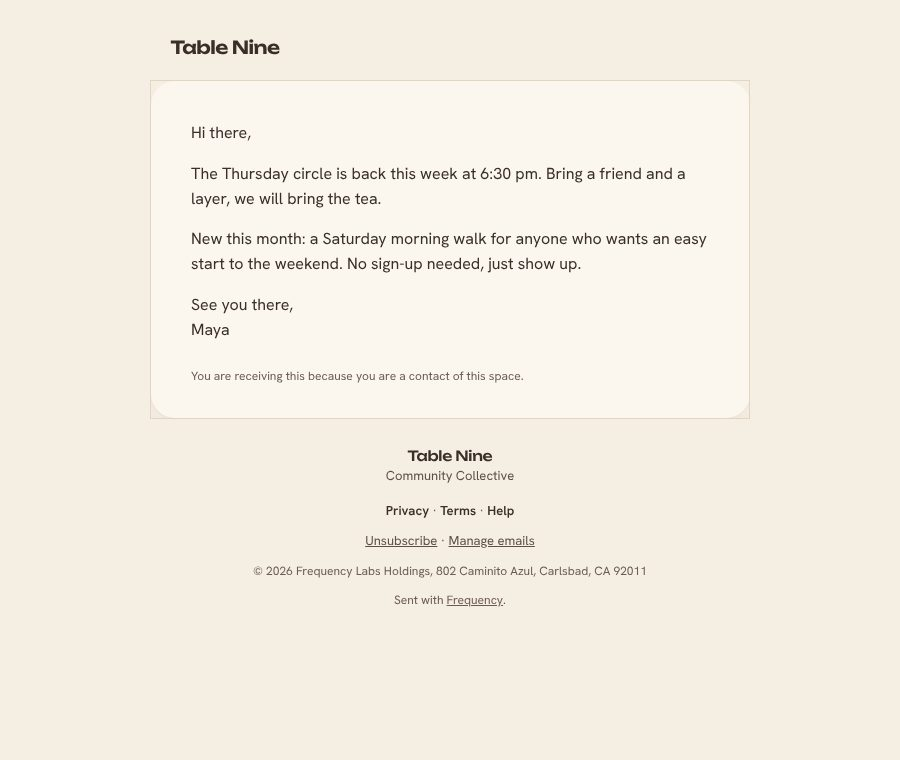
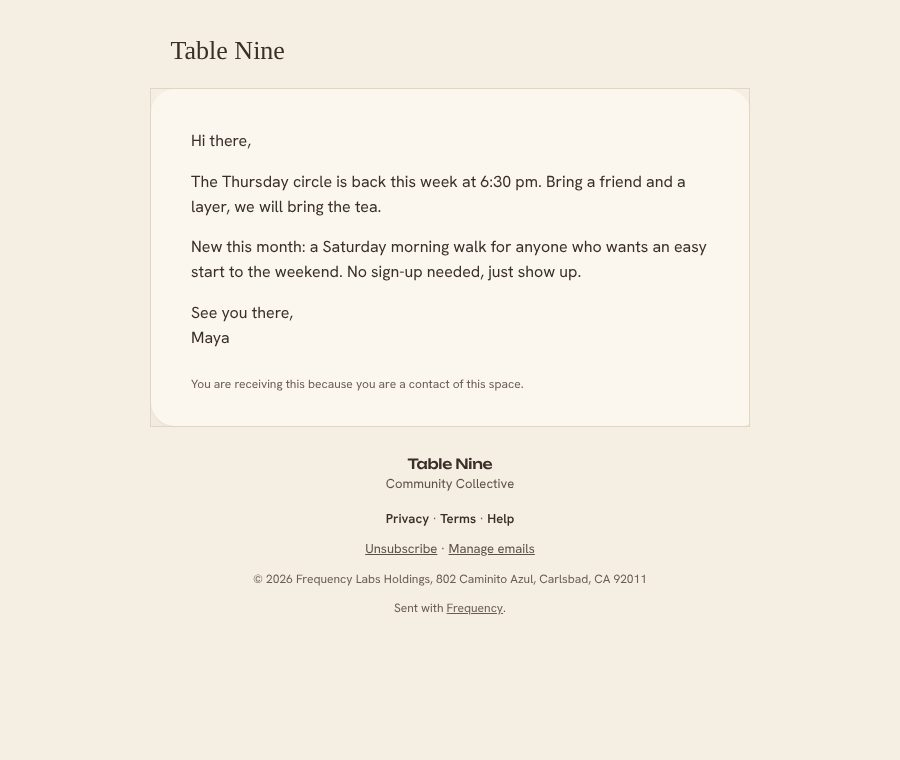
Wildheart's theme page pictures use its real faces, violet and serif email
The Website, Spotlight and Space pictures were drawn without IM Fell English, EB Garamond or Playfair, so every headline showed in Arial or Hanken. The render now loads them, shows the hero photo in its arch, drops the doubled sky line, and the Space wears the violet #6E4D96. The Space name takes IM Fell in the product CSS like the other kits, and the Wildheart email gets a serif wordmark and the petal corner.

Claude-Session: https://claude.ai/code/session_012BMmZWBhVadiMSJMqaAgNP

diff --git a/scripts/render/theme-pages-shots.render.tsx b/scripts/render/theme-pages-shots.render.tsx
@@ -28,12 +28,20 @@ const BOLD_FACES =
   [400, 500, 600].map((w) => face('Barlow', `barlow/barlow-${w}.woff2`, 'normal', String(w))).join('') +
   [400, 500].map((w) => face('IBM Plex Mono', `ibm-plex-mono/ibm-plex-mono-${w}.woff2`, 'normal', String(w))).join('')
 const BOLD_VARS = '--font-sofia-xc:"Sofia Sans Extra Condensed";--font-barlow:Barlow;--font-plex-mono:"IBM Plex Mono";'
+// Wildheart's faces (IM Fell English display, EB Garamond body, Hanken labels, Noto Sans Symbols for the zodiac glyphs) and Playfair,
+// which the Spotlight 'serif' font reads as --font-playfair. next/font sets these variables in the app; a bare page names them here.
+const ttf = (fam: string, f: string, style: string) => `@font-face{font-family:"${fam}";src:url("file://${ROOT}/public/fonts/wildheart/${f}") format("truetype");font-style:${style};font-weight:400}`
+const WH_FACES =
+  ttf('IM Fell English', 'IMFellEnglish-Regular.ttf', 'normal') + ttf('IM Fell English', 'IMFellEnglish-Italic.ttf', 'italic') +
+  face('EB Garamond', 'eb-garamond/eb-garamond.woff2', 'normal', '400 800') + face('EB Garamond', 'eb-garamond/eb-garamond-italic.woff2', 'italic', '400 800') +
+  face('Noto Sans Symbols', 'noto-sans-symbols/noto-sans-symbols.woff2') + face('Playfair Display', 'playfair-display/playfair-display.woff2', 'normal', '400 900')
+const WH_VARS = '--font-wh-fell:"IM Fell English";--font-wh-garamond:"EB Garamond";--font-wh-hanken:"Hanken Grotesk";--font-wh-symbols:"Noto Sans Symbols";--font-playfair:"Playfair Display";'
 const pub = (html: string) => html.replace(/ loading="lazy"/g, '').replace(/(src|href)="\/(sites|brand|themes|create-a-space)\//g, `$1="file://${ROOT}/public/$2/`)
 
 type Skin = { theme: 'menswork' | 'wildheart'; season: 'fall' } | null
 const THEMES: { ed: 'Menswork' | 'Wildheart'; id: string; mega: 'bold' | 'wildheart'; kit: string; skin: Skin; photo: string; cover: string; accent: string }[] = [
   { ed: 'Menswork', id: 'bold', mega: 'bold', kit: 'bold-coaches', skin: { theme: 'menswork', season: 'fall' }, photo: '/brand/frequency/photos/gathering-10.jpg', cover: '/brand/frequency/photos/gathering-12.jpg', accent: '#1F8A8A' },
-  { ed: 'Wildheart', id: 'wildheart', mega: 'wildheart', kit: 'wildheart-coaches', skin: { theme: 'wildheart', season: 'fall' }, photo: '/brand/wildheart/photos/huddle.jpg', cover: '/brand/wildheart/photos/sisters-shore.jpg', accent: '#6D4AFF' },
+  { ed: 'Wildheart', id: 'wildheart', mega: 'wildheart', kit: 'wildheart-coaches', skin: { theme: 'wildheart', season: 'fall' }, photo: '/brand/wildheart/photos/huddle.jpg', cover: '/brand/wildheart/photos/sisters-shore.jpg', accent: '#6E4D96' },
 ]
 
 async function html(el: unknown): Promise<string> {
@@ -43,7 +51,7 @@ async function html(el: unknown): Promise<string> {
   return Buffer.concat(chunks).toString()
 }
 const shellDoc = (body: string) =>
-  `<!doctype html><html data-design="frequency" data-theme="light"><head><meta charset="utf-8"><meta name="viewport" content="width=device-width,initial-scale=1"><link rel="stylesheet" href="app.css"><link rel="stylesheet" href="fonts.css"><style>:root{--font-lexend:Lexend,system-ui,sans-serif;${BOLD_VARS}}html{scrollbar-width:none}</style></head><body>${body}</body></html>`
+  `<!doctype html><html data-design="frequency" data-theme="light"><head><meta charset="utf-8"><meta name="viewport" content="width=device-width,initial-scale=1"><link rel="stylesheet" href="app.css"><link rel="stylesheet" href="fonts.css"><style>:root{--font-lexend:Lexend,system-ui,sans-serif;${BOLD_VARS}${WH_VARS}}html{scrollbar-width:none}</style></head><body>${body}</body></html>`
 
 it('renders the Bold and Wildheart surfaces', async () => {
   if (!out) throw new Error('set RENDER_OUT')
@@ -82,8 +90,11 @@ it('renders the Bold and Wildheart surfaces', async () => {
     for (const b of home.doc.content as { type: string; props: Record<string, unknown> }[]) {
       if (b.type === 'ServicesHero' || b.type === 'Hero') b.props.image = t.photo
       // Bold's kit hero is text-only; the design puts the headline above a full-width photo, so the picture shows the photo variant.
+      if (b.type === 'PhotoHero' && t.id === 'wildheart') Object.assign(b.props, { variant: 'image', image: t.cover, alt: 'Women gathered on a beach in warm light', height: 'medium', display: 'below' })
       if (b.type === 'PhotoHero' && t.id === 'bold') Object.assign(b.props, { variant: 'image', image: t.photo, alt: 'People gathered on a beach at sunset', height: 'medium', display: 'below' })
     }
+    // The Wildheart chrome already carries the sky line under the menu; the kit's own line block would print it twice in one frame.
+    if (t.id === 'wildheart') home.doc.content = (home.doc.content as { type: string }[]).filter((b) => b.type !== 'WildheartNowLine') as never
     const links = { origin: 'https://example.com', slug: 'table-nine', siteBase: '', pages: ['home'], contactHref: null, bookHref: null, email: null }
     const body = h(WebsiteDocument as never, { doc: home.doc, theme: t.ed, config, live: { events: [], circles: [], journeys: [] }, links, origin: links.origin, title: 'Home', metadata: { space: { name: 'Table Nine', faqs: [] } } } as never)
     const site = renderToStaticMarkup(
@@ -108,7 +119,7 @@ it('renders the Bold and Wildheart surfaces', async () => {
     )
     const vars = Object.entries(websiteThemeVars(t.ed as never, null, new Date('2026-10-15'))).map(([k, v]) => `${k}:${v}`).join(';').replace(/"/g, "'")
     const skinCss = t.skin === null ? FREQUENCY_PAGE_CSS : t.skin.theme === 'wildheart' ? FREQUENCY_PAGE_CSS + WILDHEART_CSS : MENSWORK_CSS + MENSWORK_PAGE_CSS
-    writeFileSync(`${out}/${t.id}-site.html`, pub(`<!doctype html><html><head><meta charset="utf-8"><meta name="viewport" content="width=device-width,initial-scale=1"><link rel="stylesheet" href="file://${out}/app.css"><style>${FACES}${BOLD_FACES}:root{${BOLD_VARS}}${HOUSE_CSS}${WEBSITE_TOKEN_CSS}${skinCss}*,*::before,*::after{box-sizing:border-box}html{scrollbar-width:none}body{margin:0}</style></head><body><div data-website-theme="${t.ed}" data-house-site style="${vars}">${site}</div></body></html>`))
+    writeFileSync(`${out}/${t.id}-site.html`, pub(`<!doctype html><html><head><meta charset="utf-8"><meta name="viewport" content="width=device-width,initial-scale=1"><link rel="stylesheet" href="file://${out}/app.css"><style>${FACES}${BOLD_FACES}${WH_FACES}:root{${BOLD_VARS}${WH_VARS}}${HOUSE_CSS}${WEBSITE_TOKEN_CSS}${skinCss}*,*::before,*::after{box-sizing:border-box}html{scrollbar-width:none}body{margin:0}</style></head><body><div data-website-theme="${t.ed}" data-house-site style="${vars}">${site}</div></body></html>`))
 
     // ---- Spotlight: the real shell on the theme's own preset.
     const preset = THEME_PRESETS.find((p) => p.id === t.mega)!.theme

diff --git a/lib/email-studio/shell.ts b/lib/email-studio/shell.ts
@@ -12,6 +12,7 @@ import { palette } from '@/lib/theme/palette'
 
 const FONT_STACK = emailType.sans
 const DISPLAY_STACK = emailType.display
+const SERIF_DISPLAY = "'IM Fell English',Georgia,'Times New Roman',serif"
 const SQUARE_DISPLAY = "'Sofia Sans Extra Condensed','Arial Narrow',Impact,sans-serif"
 
 /** The sender BRAND an email document is themed with. Every field optional so a default Frequency-branded
@@ -32,6 +33,8 @@ export interface EmailBrand {
   /** Square corners and the condensed caps wordmark: Bold's email (the Bold design system: radius 0, one chamfer, Sofia Sans Extra Condensed).
    *  A mail client cannot cut a 60 degree corner, so the card is plain square. Faces fall back to Arial Narrow and Impact where a client drops web fonts. */
   square?: boolean
+  /** The serif wordmark and the petal corner: Wildheart's email. A mail client that drops web fonts shows Georgia, which keeps the same hand. */
+  serif?: boolean
 }
 
 const DEFAULT_BASE_URL = 'https://frequencylocal.com'
@@ -84,7 +87,7 @@ function header(brand: EmailBrand, colors: EmailColors, baseUrl: string): string
   const alt = brand.wordmark ?? `Frequency, ${DEFAULT_TAGLINE}`
   const inner = logoUrl
     ? `<a href="${escapeHtml(baseUrl)}" style="text-decoration:none;"><img src="${escapeHtml(logoUrl)}" alt="${escapeHtml(alt)}" width="${brand.logoUrl ? 168 : emailType.wordmark.width}" height="${brand.logoUrl ? 30 : emailType.wordmark.height}" data-fq="fq-logo" style="display:block;border:0;width:${brand.logoUrl ? 168 : emailType.wordmark.width}px;height:auto;font-family:${DISPLAY_STACK};font-size:16px;font-weight:600;letter-spacing:0.02em;text-transform:uppercase;color:${colors.heading ?? colors.text};text-decoration:none;"></a>`
-    : `<a href="${escapeHtml(baseUrl)}" data-fq="fq-logo" style="font-family:${brand.square ? SQUARE_DISPLAY : DISPLAY_STACK};font-size:${brand.square ? 24 : 18}px;font-weight:${brand.square ? 800 : 600};letter-spacing:${brand.square ? '0.005em' : '-0.03em'};${brand.square ? 'text-transform:uppercase;' : ''}color:${colors.heading ?? colors.text};text-decoration:none;">${escapeHtml(brand.wordmark ?? 'Frequency')}</a>`
+    : `<a href="${escapeHtml(baseUrl)}" data-fq="fq-logo" style="font-family:${brand.square ? SQUARE_DISPLAY : brand.serif ? SERIF_DISPLAY : DISPLAY_STACK};font-size:${brand.square ? 24 : brand.serif ? 26 : 18}px;font-weight:${brand.square ? 800 : brand.serif ? 400 : 600};letter-spacing:${brand.square ? '0.005em' : brand.serif ? '0' : '-0.03em'};${brand.square ? 'text-transform:uppercase;' : ''}color:${colors.heading ?? colors.text};text-decoration:none;">${escapeHtml(brand.wordmark ?? 'Frequency')}</a>`
   const tagline = brand.logoUrl || !brand.wordmark ? '' : (brand.tagline ?? '')
   const tag = tagline
     ? `<p data-fq="fq-muted" style="font-family:${DISPLAY_STACK};font-size:11px;font-weight:500;color:${colors.subtle};letter-spacing:0.14em;text-transform:uppercase;line-height:1;margin:6px 0 0;">${escapeHtml(tagline)}</p>`
@@ -219,7 +222,7 @@ ${night}
       <!--[if mso]><table role="presentation" width="600" cellpadding="0" cellspacing="0" border="0"><tr><td><![endif]-->
       <table role="presentation" width="100%" cellpadding="0" cellspacing="0" border="0" style="width:100%;max-width:600px;border-collapse:collapse;">
         ${hero ? '' : `<tr><td data-fq="fq-head" style="padding:0 20px 22px;text-align:left;">${header(brand, colors, baseUrl)}</td></tr>`}
-        <tr><td data-fq="fq-card" style="background:${colors.surface};border:1px solid ${colors.border};border-radius:${brand.square ? 0 : 24}px;padding:0;overflow:hidden;font-family:${FONT_STACK};${emailType.cardShadow ? `box-shadow:${emailType.cardShadow};` : ''}">
+        <tr><td data-fq="fq-card" style="background:${colors.surface};border:1px solid ${colors.border};border-radius:${brand.square ? '0' : brand.serif ? '24px 24px 6px 24px' : '24px'};padding:0;overflow:hidden;font-family:${FONT_STACK};${emailType.cardShadow ? `box-shadow:${emailType.cardShadow};` : ''}">
           <table role="presentation" width="100%" cellpadding="0" cellspacing="0" border="0" style="width:100%;border-collapse:collapse;">
             ${hero}
             <tr><td data-fq="fq-body" style="padding:40px 40px 32px;font-family:${FONT_STACK};">

diff --git a/app/themes/frequency/space-page.css b/app/themes/frequency/space-page.css
@@ -120,6 +120,11 @@
 [data-design="frequency"] [data-space-fonts="free-human"] { --space-display-track: -0.005em; --space-display-scale: 1.12; }
 [data-design="frequency"] [data-space-fonts="free-human"] :is(.fqs-hero h1, .fqs-card-t, .fqs-date b, [data-space-page] .font-display, [data-space-page] .font-section) { font-weight: 500; }
 [data-design="frequency"] [data-space-fonts="free-human"] .fqs-id .h1 { font-family: var(--space-font-display), var(--fq-font-display); font-weight: 500; letter-spacing: var(--space-display-track); }
+/* Wildheart display: IM Fell English 400, its only weight, so nothing is bolded into a fake face. The Space name takes it too, and the scale lifts
+   it a size because Fell sets smaller than Unbounded at the same size. */
+[data-design="frequency"] [data-space-fonts="wildheart"] { --space-display-scale: 1.12; }
+[data-design="frequency"] [data-space-fonts="wildheart"] :is(.fqs-hero h1, .fqs-card-t, .fqs-date b, [data-space-page] .font-display, [data-space-page] .font-section) { font-weight: 400; }
+[data-design="frequency"] [data-space-fonts="wildheart"] .fqs-id .h1 { font-family: var(--space-font-display), var(--fq-font-display); font-weight: 400; letter-spacing: var(--space-display-track); }
 [data-design="frequency"] [data-space-fonts="menswork"] { --space-display-track: 0.005em; --space-display-scale: 1.18; }
 
 /* ══ 1. TYPE: Unbounded titles, Hanken body, Instrument Serif italic accents ══════════════════════ */

diff --git a/lib/spaces/email-colors.test.ts b/lib/spaces/email-colors.test.ts
@@ -174,3 +174,11 @@ describe('Bold email shape', () => {
     expect(other.square).toBeUndefined()
   })
 })
+
+describe('Wildheart email shape', () => {
+  it('a Wildheart Space gets the serif wordmark and others keep Frequency\'s', async () => {
+    const { spaceEmailBrand } = await import('./email-colors')
+    expect(spaceEmailBrand({ name: 'T', preferences: { megaTheme: { theme: 'wildheart' } } }).serif).toBe(true)
+    expect(spaceEmailBrand({ name: 'T', preferences: { megaTheme: { theme: 'bold' } } }).serif).toBeUndefined()
+  })
+})

diff --git a/lib/spaces/email-colors.ts b/lib/spaces/email-colors.ts
@@ -222,5 +222,7 @@ export function spaceEmailBrand(space: SpaceEmailBrandInput): EmailBrand {
     logoUrl,
     // Bold's email has square corners (its design: radius 0; no clip-path survives a mail client).
     ...(readMegaTheme(space.preferences).theme === 'bold' ? { square: true } : {}),
+    // Wildheart's email wears a serif wordmark and the petal corner (its design: one square corner among rounded ones).
+    ...(readMegaTheme(space.preferences).theme === 'wildheart' ? { serif: true } : {}),
   }
 }
